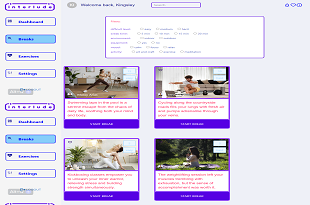
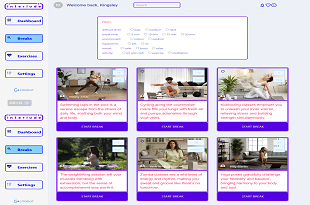
Update break cards to take 3 columns per row instead of the initial 2

diff --git a/front-end/src/components/breaks/Cards.jsx b/front-end/src/components/breaks/Cards.jsx
@@ -44,7 +44,7 @@ const Cards = () => {
   return (
     <>
     {modal && (<Timer breakMinutes={breakDuration}/>)}
-    <div className={`${!modal ? 'opacity-[100%]' : 'opacity-[0.02]'} text-[#fff] flex flex-row gap-10 card-container`}>
+    <div className={`${!modal ? 'opacity-[100%]' : 'opacity-[0.02]'} text-[#fff] flex flex-row gap-4 justify-center card-container`}>
       {CardData &&
         CardData.map((item) => (
           <ul key={item?.id} className="box">

diff --git a/front-end/src/assets/styles/breaks/cards.css b/front-end/src/assets/styles/breaks/cards.css
@@ -1,17 +1,14 @@
 .card-container {
   flex-wrap: wrap;
-  width: 978px;
+  min-width: 100%;
   border-radius: 8px;
 }
 
 .box {
-  /* flex: 0 21%; */
   flex-grow: 1;
   flex: 0 0 215px;
-  /* width: 100%; */
   width: 100%;
   height: 100%;
-  /* flex-shrink: 0; */
   margin: 10px;
   border-radius: 8px;
   border: 3px solid #9747ff;
